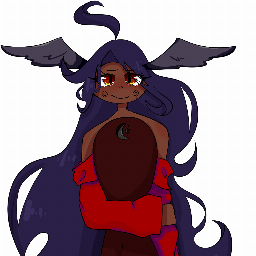
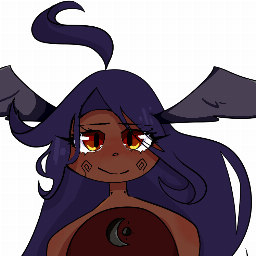
Data-driven portrait creation work-in-progress

diff --git a/scripts/create_portraits.php b/scripts/create_portraits.php
@@ -13,6 +13,15 @@ $portraitFolder = $argv[2];
 $targetWidth = $argv[3];
 $targetHeight = $argv[4];
 
+$characterFile = dirname(__FILE__) . '/../data/characters.json';
+if (!file_exists($characterFile)) {
+    die("Can not find file: $characterFile\n");
+}
+$characters = json_decode(file_get_contents($characterFile), true);
+if (!$characters) {
+    die("Could not parse file: $characterFile\n");
+}
+
 function endsWith($haystack, $needle){
     $length = strlen($needle);
     return (substr($haystack, -$length) === $needle);
@@ -26,8 +35,19 @@ foreach ($iterator as $fileInfo) {
     if (!endsWith($filename, '.png')) continue;
     $base = basename($filename);
     $filename = $fileInfo->getPathname();
+    $info = pathinfo($filename);
+    $characterId = basename($filename, '.' . $info['extension']);
+    if (!isset($characters[$characterId])) {
+        echo "Unknown character: $characterId\n";
+        continue;
+    }
+    $character = $characters[$characterId];
+    if (!isset($character['portrait'])) {
+        echo "Character has no portrait location set: $characterId\n";
+        continue;
+    }
 
-    echo "Processing $base\n";
+    echo "Processing $characterId\n";
     $image = imagecreatefrompng($filename);
     if (!$image) {
         echo " Error loading $filename\n";
@@ -35,13 +55,23 @@ foreach ($iterator as $fileInfo) {
     }
 
     list($width, $height) = getimagesize($filename);
+    list($centerX, $centerY) = $character['portrait'];
+    $centerX = floor($centerX * $width);
+    $centerY = floor($centerY * $height);
+
+    $cropHeight = $centerY * 2;
+    $cropWidth = min($width, $cropHeight);
+    $cropSize = min($cropWidth, $cropHeight);
+    $cropX = $centerX - floor($cropWidth / 2);
+    $cropY = $centerY - floor($cropHeight / 2);
 
     $crop = array(
-        'x' => 0,
-        'y' => 0,
-        'width' => $width,
-        'height' => $width
+        'x' => $cropX,
+        'y' => $cropY,
+        'width' => $cropSize,
+        'height' => $cropSize
     );
+    echo " Crop: " . json_encode($crop) . "\n";
     $cropped = imagecrop($image, $crop);
     $scaled = imagescale($cropped, $targetWidth, $targetHeight);
     imagesavealpha($scaled, true);
